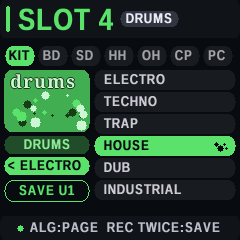
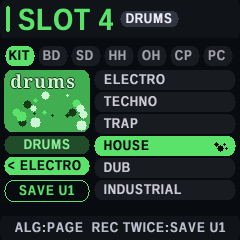
REC twice saves the sound from any page of the sound editor; pedal art kept inside its cards and chips
Saving to the USER slot now works on MAIN, OSC, ENV, LFO and each drum's page as well as
INSTR; the bottom line names the slot (SAVE U1) and SAVED USER n shows in the top bar.
Shifter, Bitcrusher, Filter Seq and Lo-Fi drew rectangles past their pedalboard cards and
home chips: the art's rectangles are now clipped (checked for all 30 pedals in every slot).
Lo-Fi's card shows its antennas, so its values read. Guide and pictures updated.

Changed region(s): [[0.0583, 0.9042, 0.9333, 0.9917]]

diff --git a/docs/index.html b/docs/index.html
@@ -521,7 +521,7 @@ footer a { color: var(--sub); }
       <p>On drums: a KIT page, then pitch, decay and level for each drum.</p>
 
       <h3 id="ownsound">Your own sounds</h3>
-      <p>On INSTR (or KIT), pick a USER slot with <kbd>KNOB 4</kbd> and press <kbd>REC</kbd> twice. There are 8 slots per type and 4 for kits. They are kept in your saves and survive clear all.</p>
+      <p>Press <kbd>REC</kbd> twice on any page of the sound editor to save your sound, so a tweak is never lost when you move on. It saves to the USER slot shown on the bottom line (<b>SAVE U1</b>); pick another with <kbd>KNOB 4</kbd> on INSTR (or KIT). There are 8 slots per type and 4 for kits. They are kept in your saves and survive clear all.</p>
 
       <h3>Voices</h3>
       <p>Lead, pads and bass share nine voices (four each for lead and pads, one for bass). A bass plays one note per step.</p>
@@ -615,7 +615,7 @@ footer a { color: var(--sub); }
   <table class="t">
     <tr><td><kbd>ALGORITHM</kbd></td><td>The page: INSTR, MAIN, OSC, ENV, LFO (drums: KIT, then each drum).</td></tr>
     <tr><td><kbd>KNOB 1&ndash;4</kbd></td><td>The page's four settings.</td></tr>
-    <tr><td><kbd>REC</kbd> twice</td><td>On INSTR / KIT: save to the USER slot.</td></tr>
+    <tr><td><kbd>REC</kbd> twice</td><td>Any page: save the sound to the USER slot (chosen with <kbd>KNOB 4</kbd> on INSTR / KIT).</td></tr>
   </table>
 
   <h3>SUPER SEQ, mixer, KEY and save page</h3>

diff --git a/firmware/src/quartet.c b/firmware/src/quartet.c
@@ -998,7 +998,7 @@ static void bottom_bar(const char *s, uint16_t dot)   /* the bottom bar: the tex
 static uint32_t kit_list(uint8_t *ids, uint32_t cur);
 static uint32_t id_bank(uint32_t t, uint32_t id);
 static uint32_t snd_pg;                         /* the sound editor's page: 0 INSTR (drums: KIT), then MAIN OSC ENV LFO (drums: a drum each) */
-static uint32_t usr_slot, usr_ask, usr_t;       /* INSTR: the USER slot to save to; "sure?" (REC again within 3 s) */
+static uint32_t usr_slot, usr_ask, usr_t;       /* the USER slot to save to (KNOB4 on INSTR); "sure?" (REC again within 3 s, any page) */
 static uint32_t chain_sl;                       /* the signal chain (EDIT twice): the pedal slot chosen, 0..3 */
 static uint32_t cp_trk, cp_pat, cp_ask, cp_t, cp_live;   /* the copy page (SEQ held): the pattern to copy from; "sure?"
                                                    (REC again within 3 s); back to the live page (else the step recorder) */
@@ -1034,9 +1034,8 @@ static void draw_status(int32_t oct, uint32_t trk, uint32_t show_ch, uint32_t pa
     } else if (page == PG_MIX) {                /* the mixer */
         p = put(p, "FX, SEL, ENV, LFO: MUTE TRACKS");
     } else if (page == PG_SOUND) {              /* the sound editor */
-        if (snd_pg == 0u && usr_ask) { p = put(p, "REC AGAIN: SAVE TO USER "); *p++ = (char)('1' + usr_slot); }
-        else if (snd_pg == 0u) p = put(p, "ALG:PAGE  REC TWICE:SAVE");
-        else p = put(p, "ALG:PAGE  EDIT:CHAIN");
+        if (usr_ask) { p = put(p, "REC AGAIN: SAVE TO USER "); *p++ = (char)('1' + usr_slot); }
+        else { p = put(p, "ALG:PAGE  REC TWICE:SAVE U"); *p++ = (char)('1' + usr_slot); }
     } else if (page == PG_CHAIN) {              /* the signal chain: what KNOB2-4 turn on the chosen pedal */
         pknob_t pk[3];
         uint32_t k, n;
@@ -1325,6 +1324,21 @@ static void arow(int32_t x0, int32_t x1, int32_t y, uint16_t c)   /* a row x0..x
     if (x1 >= x0) cv_rect(x0, y, x1 - x0 + 1, 1, c);
 }
 static int32_t row_vis(int32_t y) { return y + cv_oy >= 0 && y + cv_oy < (int32_t)cv_h; }
+static void arect(int32_t x, int32_t y, int32_t w, int32_t h, uint16_t c)   /* a rectangle, clipped to the case */
+{
+    int32_t j;
+    for (j = y; j < y + h; j++) if (row_vis(j)) arow(x, x + w - 1, j, c);
+}
+static void arrect(int32_t x, int32_t y, int32_t w, int32_t h, int32_t r, uint16_t c)   /* round corners, clipped */
+{
+    int32_t i;
+    if (2 * r > h) r = h / 2;
+    if (2 * r > w) r = w / 2;
+    for (i = 0; i < h; i++) {
+        int32_t d = i < r ? r - 1 - i : i >= h - r ? i - (h - r) : -1, ins = d < 0 ? 0 : r - isqrt_small(r * r - d * d);
+        if (row_vis(y + i)) arow(x + ins, x + w - 1 - ins, y + i, c);
+    }
+}
 static uint16_t cv_get(int32_t x, int32_t y)
 {
     x += cv_ox;
@@ -1635,10 +1649,10 @@ static void pedal_art(uint32_t lk, uint16_t body)   /* the art, under the knobs 
         int32_t gx, gy;
         for (gy = 0; gy < 7; gy++) {
             if (gy == 2 || gy == 4 || gy == 6) continue;
-            for (gx = -8; gx <= 8; gx++) if (gx * gx + gy * gy <= 56) cv_rect(120 + gx * 6, 170 - gy * 6, 5, 5, mix565(RGB(240, 80, 190), RGB(255, 200, 60), gy * 100 / 7));
+            for (gx = -8; gx <= 8; gx++) if (gx * gx + gy * gy <= 56) arect(120 + gx * 6, 170 - gy * 6, 5, 5, mix565(RGB(240, 80, 190), RGB(255, 200, 60), gy * 100 / 7));
         }
         for (gy = 0; gy < 6; gy++)
-            for (gx = 0; gx < 38; gx++) if (!((gx + gy) & 1)) cv_rect(6 + gx * 6, 176 + gy * 6, 5, 5, mix565(RGB(240, 80, 190), body, 55 + gy * 7));
+            for (gx = 0; gx < 38; gx++) if (!((gx + gy) & 1)) arect(6 + gx * 6, 176 + gy * 6, 5, 5, mix565(RGB(240, 80, 190), body, 55 + gy * 7));
         break;
     }
     case LK_FSEQ: {
@@ -1646,7 +1660,7 @@ static void pedal_art(uint32_t lk, uint16_t body)   /* the art, under the knobs 
         uint16_t mi = RGB(80, 230, 190);
         for (i = 0; i < 14u; i++) {
             int32_t x = 10 + (int32_t)i * 16, top = 196 - H[i], wy;
-            cv_rect(x, top, 13, 208 - top, mix565(mi, body, i == 3u ? 0 : 55));
+            arect(x, top, 13, 208 - top, mix565(mi, body, i == 3u ? 0 : 55));
             for (wy = top + 6; wy < 206; wy += 6) { ap(x + 4, wy, mix565(mi, body, 10)); ap(x + 9, wy, mix565(mi, body, 30)); }
         }
         astars(31, 10, 130, 230, 150, 18, mi);
@@ -1821,8 +1835,8 @@ static void pedal_art(uint32_t lk, uint16_t body)   /* the art, under the knobs 
         uint16_t cn = RGB(80, 210, 240);
         for (k = 0; k < 7; k++) {
             int32_t x = 30 + k * 26, y = 200 - k * 10;
-            cv_rect(x, y, 26, 10, mix565(cn, body, 10 + k * 8));
-            cv_rect(x, y + 10, 26, 208 - y - 10, mix565(cn, body, 70));
+            arect(x, y, 26, 10, mix565(cn, body, 10 + k * 8));
+            arect(x, y + 10, 26, 208 - y - 10, mix565(cn, body, 70));
         }
         aline(40, 186, 40, 170, cn, 1); aline(40, 170, 34, 176, cn, 1); aline(40, 170, 46, 176, cn, 1);
         break;
@@ -1906,8 +1920,8 @@ static void pedal_art(uint32_t lk, uint16_t body)   /* the art, under the knobs 
     }
     case LK_LOFI: {
         uint16_t rb = RGB(60, 46, 34);
-        cv_rrect(60, 150, 120, 54, 8, rb);
-        cv_rrect(68, 158, 60, 38, 4, mix565(rb, body, 30));
+        arrect(60, 150, 120, 54, 8, rb);
+        arrect(68, 158, 60, 38, 4, mix565(rb, body, 30));
         s = 5;
         for (i = 0; i < 160u; i++) { int32_t x = 70 + (int32_t)rnd_n(&s, 56), y = 160 + (int32_t)rnd_n(&s, 34); ap(x, y, rnd_n(&s, 10) < 6u ? body : rb); }
         adisc(154, 166, 7, body); adisc(154, 188, 7, body);
@@ -1948,7 +1962,7 @@ static void pedal_art(uint32_t lk, uint16_t body)   /* the art, under the knobs 
         uint16_t aa = RGB(90, 220, 220);
         adisc(206, 160, 12, mix565(aa, K_WHITE, 50));
         adisc(212, 156, 11, body);
-        for (k = 0; k < 9; k++) { int32_t x = 24 + k * 20, y = 200 - k * 8 - (k % 3) * 4; cv_rrect(x, y, 14, 5, 2, mix565(aa, body, k == 4 ? 0 : 50)); }
+        for (k = 0; k < 9; k++) { int32_t x = 24 + k * 20, y = 200 - k * 8 - (k % 3) * 4; arrect(x, y, 14, 5, 2, mix565(aa, body, k == 4 ? 0 : 50)); }
         astars(12, 10, 126, 190, 160, 16, aa);
         break;
     }
@@ -2072,7 +2086,7 @@ static void draw_pedal(uint32_t trk, uint32_t e)
 static const uint8_t PL_FOCUS[NLOOK][2] = {
     {125, 165}, {120, 175}, {120, 160}, {100, 160}, {120, 170}, {120, 175}, {110, 185}, {120, 180}, {180, 160}, {122, 180},
     {140, 140}, {120, 160}, {120, 180}, {120, 165}, {120, 175}, {62, 150}, {120, 160}, {120, 165}, {120, 130}, {120, 165},
-    {120, 172}, {110, 180}, {120, 165}, {160, 165}, {100, 158}, {120, 170}, {120, 170}, {120, 170}, {100, 170}, {140, 170},
+    {120, 172}, {110, 180}, {120, 165}, {160, 165}, {100, 158}, {120, 170}, {120, 170}, {120, 108}, {100, 170}, {140, 170},
     {120, 175}};
 static void art_window(uint32_t lk, int32_t dx, int32_t dy, int32_t w, int32_t h, int32_t r)
 {                                               /* a window of a pedal's art (round its focus) at dx, dy, w x h */
@@ -3641,7 +3655,7 @@ static void app_main(void)
                                 | knob(ENC_KNOB3, &sp->ltgt, 0, NLTGT - 1) | knob(ENC_KNOB4, &sp->lwave, 0, NLWAVE - 1); break;
                 }
             }
-            if (ch) CHANGED();
+            if (ch) { CHANGED(); usr_ask = 0; }
         } else if (spage == PG_KEY) {           /* the key: KNOB1 the lock, KNOB2 the lights */
             uint8_t lk = set.keyopt & 1u, li = set.keyopt >> 1 & 1u;
             if (knob(ENC_KNOB1, &lk, 0, 1) | knob(ENC_KNOB2, &li, 0, 1)) { set.keyopt = (uint8_t)(lk | li << 1); CHANGED(); }
@@ -3699,7 +3713,7 @@ static void app_main(void)
                     CHANGED();
                 }
             }
-            else if (!rec_long && spage == PG_SOUND && snd_pg == 0u) {   /* INSTR: save the sound to the USER slot (REC twice) */
+            else if (!rec_long && spage == PG_SOUND) {   /* any page of the sound editor: save the sound to the USER slot (REC twice) */
                 if (!usr_ask || fm1_ms - usr_t > 3000u) { usr_ask = 1; usr_t = fm1_ms; }
                 else {
                     static char sm[16];
@@ -3877,11 +3891,14 @@ static void app_main(void)
         } else if (pedal_mode == 8u) {                 /* the sound editor: the track (SOUND), its page */
             const uint8_t *sb = trk < NSYN ? (const uint8_t *)&set.snd[trk] : (const uint8_t *)&set.dsnd[drum];
             uint32_t nb = trk < NSYN ? sizeof(snd_t) : sizeof(dsnd_t);
-            if ((st = mix(mix(mix(trk, trk_mute >> trk & 1u), 8u), trk < NSYN ? set.styp[trk] * 7u + set.styp[(trk + 1u) % NSYN] * 3u + set.styp[(trk + 2u) % NSYN] : 0u)) != head_drawn) {
+            uint32_t show_msg = msg && fm1_ms - msg_t < 1500u;
+            if ((st = mix(mix(mix(mix(trk, trk_mute >> trk & 1u), 8u), trk < NSYN ? set.styp[trk] * 7u + set.styp[(trk + 1u) % NSYN] * 3u + set.styp[(trk + 2u) % NSYN] : 0u), show_msg ? msg_t : 0u)) != head_drawn) {
                 static char sn[8] = "SLOT 1";
                 for (k = 0; k < NTRK && SEQ_ORDER[k] != trk; k++) {}
                 sn[5] = (char)('1' + k % NTRK);   /* (the slots as on the screen, top to bottom: 1-4) */
-                head_drawn = st; head_badge = TYPE_NAME[TTYPE(trk)]; head_track(trk, sn, 0); head_badge = 0;
+                head_drawn = st;
+                if (show_msg) head_text(msg, msg_ok ? C_WHITE : C_MUTE, msg_ok ? C_PLAYG : C_MUTE);   /* SAVED USER 3 */
+                else { head_badge = TYPE_NAME[TTYPE(trk)]; head_track(trk, sn, 0); head_badge = 0; }
             }
             st = mix(mix(mix(mix(mix(mix(trk, snd_pg), drum), set.bpm), set.dkit), trk_mute >> trk & 1u), 81u);
             st = mix(mix(mix(mix(st, usr_slot), usr_ask), trk < NSYN ? set.styp[trk] : 9u), trk < NSYN ? set.glide[trk] : 0u);

diff --git a/docs/USER_GUIDE.md b/docs/USER_GUIDE.md
@@ -114,7 +114,7 @@ The drum kits are synthesised, except the **LM-1**, which plays samples of a rea
 | **ENV** | Attack | Decay | Sustain | Release |
 | **LFO** | Rate | Depth | Target: pitch/filter/volume | Wave: tri/square/saw/random |
 
-**Saving your own sound:** tweak it, go to **INSTR**, pick a USER slot with **KNOB4** and press **REC twice** (within three seconds; the bottom line asks first). **SAVED USER 3** shows and the slot now plays the saved sound, which appears in the USER bank of that type. Saving to a used slot replaces it. The USER bank is kept with your work and with each saved project, and survives *clear everything*.
+**Saving your own sound:** press **REC twice** on any page of the sound editor (within three seconds; the bottom line asks first). It saves to the USER slot named on the bottom line (**SAVE U1**); pick another with **KNOB4** on **INSTR**. **SAVED USER 3** shows and the slot now plays the saved sound, which appears in the USER bank of that type. Saving to a used slot replaces it. The USER bank is kept with your work and with each saved project, and survives *clear everything*.
 
 **Glide** (MAIN, KNOB1) slides each note's pitch from the last one: off at 0, up to about half a second. Tempo is on KNOB1 of the home screen.
 
